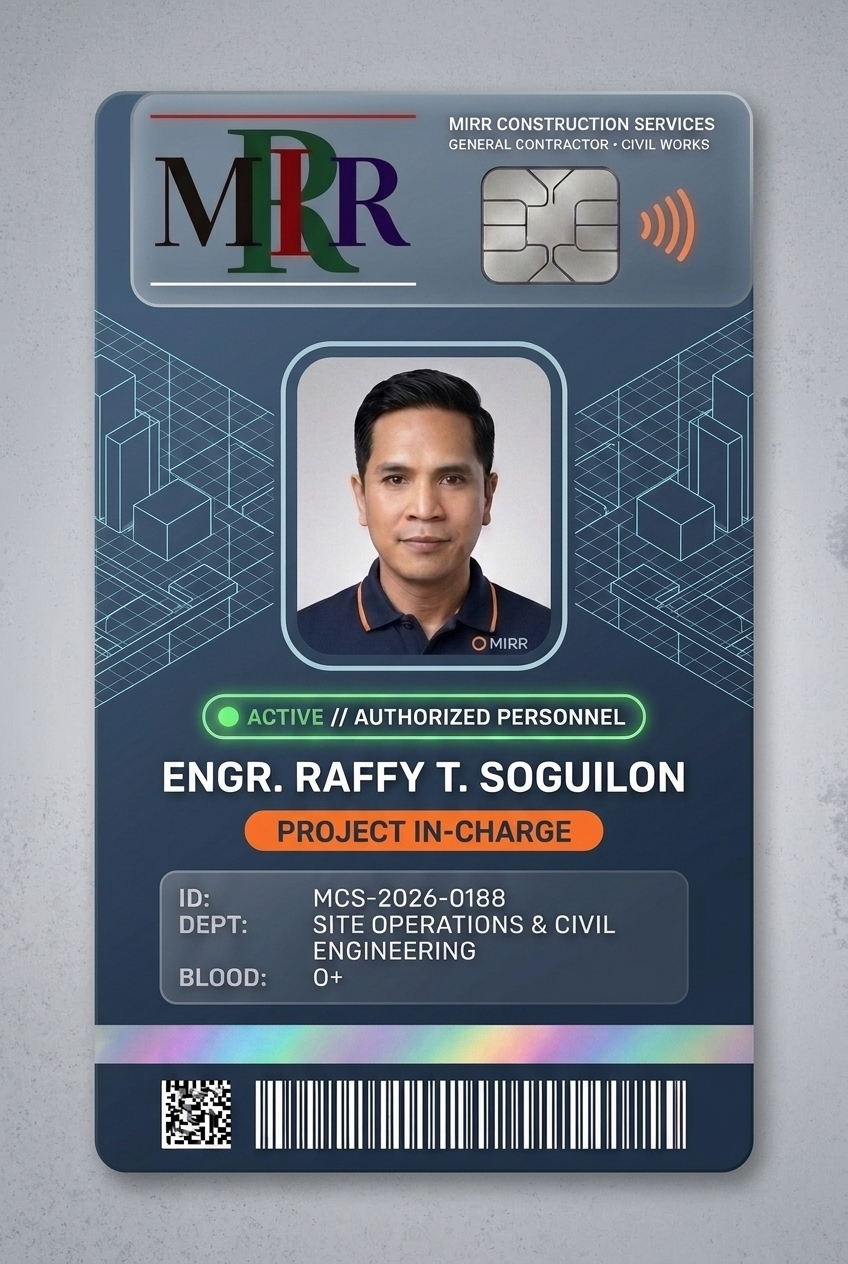
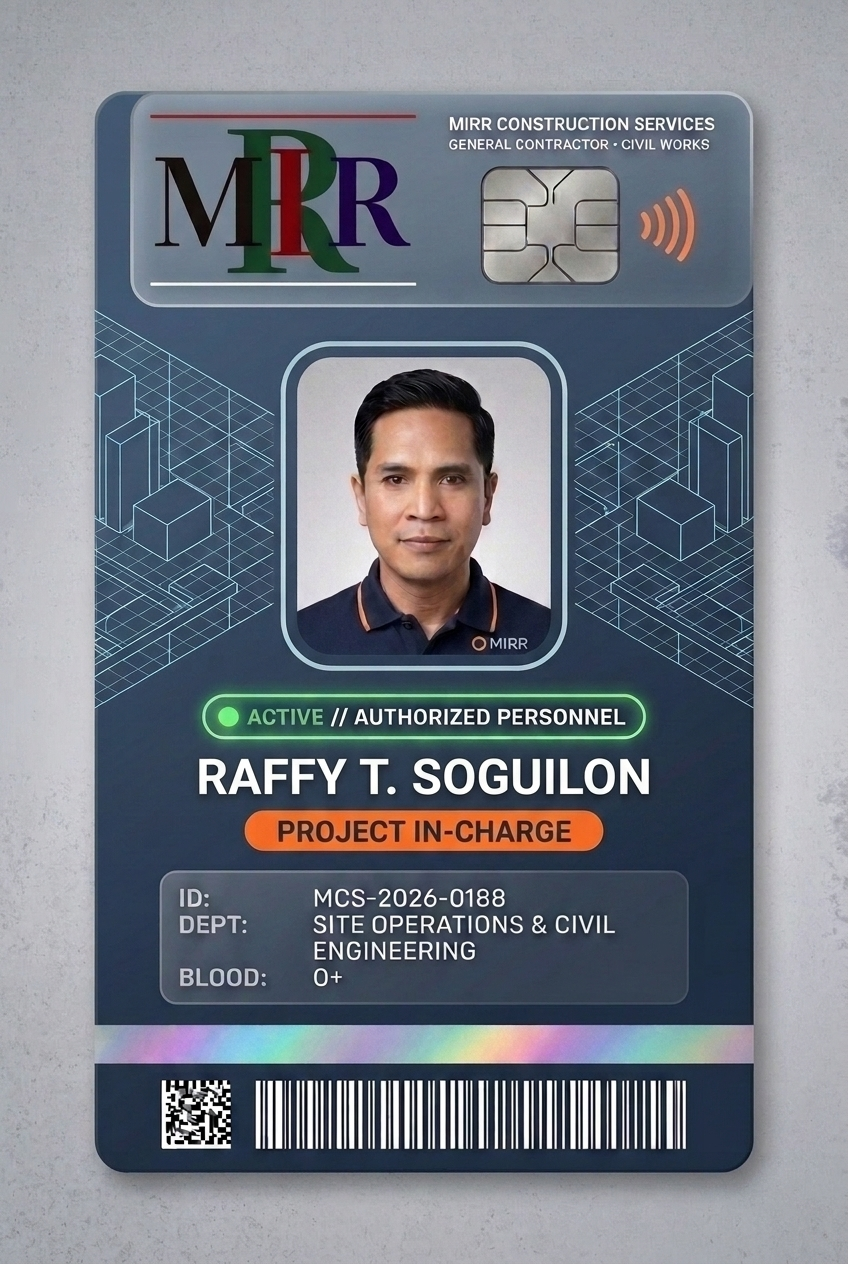
Remove Engineer title prefix before name across all MIRR ID badges and documentation

Changed region(s): [[0.184, 0.5862, 0.8278, 0.6479], [0.2146, 0.8639, 0.2453, 0.8948]]

diff --git a/Printable_ID_Photos_Sheet.html b/Printable_ID_Photos_Sheet.html
@@ -3,7 +3,7 @@
 <head>
 <meta charset="UTF-8">
 <meta name="viewport" content="width=device-width, initial-scale=1.0">
-<title>Professional ID Photos Package — Engr. Raffy T. Soguilon</title>
+<title>Professional ID Photos Package — Raffy T. Soguilon</title>
 <link href="https://fonts.googleapis.com/css2?family=Plus+Jakarta+Sans:wght@500;600;700;800&family=JetBrains+Mono:wght@600&display=swap" rel="stylesheet">
 <style>
   * {
@@ -293,7 +293,7 @@
           <path d="M23 19a2 2 0 0 1-2 2H3a2 2 0 0 1-2-2V8a2 2 0 0 1 2-2h4l2-3h6l2 3h4a2 2 0 0 1 2 2z"></path>
           <circle cx="12" cy="13" r="4"></circle>
         </svg>
-        Professional ID Photo Package — Engr. Raffy T. Soguilon
+        Professional ID Photo Package — Raffy T. Soguilon
       </h1>
       <p>Printable A4 Sheet • 2×2 inch, Philippine Passport/PRC (35×45mm), and 1×1 inch with Cut Guides</p>
     </div>
@@ -316,7 +316,7 @@
     
     <div class="sheet-header">
       <div>
-        <div class="sheet-title">ENGR. RAFFY T. SOGUILON</div>
+        <div class="sheet-title">RAFFY T. SOGUILON</div>
         <div class="sheet-subtitle">Professional ID Photo Package • Project In-Charge • MIRR Construction Services</div>
       </div>
       <div style="text-align: right; font-size: 8px; color: #64748b;">
@@ -356,7 +356,7 @@
       <div class="cut-guide">
         <div class="size-2x2-tag">
           <img src="Professional_ID_Photo.jpg" alt="2x2 with Nametag">
-          <div class="nametag-strip">ENGR. RAFFY T. SOGUILON</div>
+          <div class="nametag-strip">RAFFY T. SOGUILON</div>
         </div>
       </div>
     </div>

diff --git a/MIRR_Employee_ID_Card.html b/MIRR_Employee_ID_Card.html
@@ -773,7 +773,7 @@
         MIRR <span>CONSTRUCTION</span>
         <span class="badge-tag">2026 Modern Edition</span>
       </h1>
-      <p>High-Tech Corporate Identification Badge • Engr. Raffy T. Soguilon • CR80 (54mm × 85.6mm)</p>
+      <p>High-Tech Corporate Identification Badge • Raffy T. Soguilon • CR80 (54mm × 85.6mm)</p>
     </div>
     <div class="action-buttons">
       <button class="btn btn-print" onclick="window.print()">
@@ -826,7 +826,7 @@
           <div class="photo-wrapper">
             <div class="photo-frame-modern">
               <!-- Professional Corporate Portrait -->
-              <img src="Professional_ID_Photo.jpg" alt="Engr. Raffy T. Soguilon" style="width:100%; height:100%; object-fit:cover; display:block;">
+              <img src="Professional_ID_Photo.jpg" alt="Raffy T. Soguilon" style="width:100%; height:100%; object-fit:cover; display:block;">
             </div>
             <!-- Smart Chip Icon -->
             <div class="smart-chip-icon" title="Encrypted Biometric Smart Chip">
@@ -843,7 +843,7 @@
           <!-- Employee Name & Designation -->
           <div class="employee-meta">
             <div class="access-pill">Active // Site Clearance</div>
-            <div class="emp-name-modern" contenteditable="true">ENGR. RAFFY T. SOGUILON</div>
+            <div class="emp-name-modern" contenteditable="true">RAFFY T. SOGUILON</div>
             <div class="emp-role-badge" contenteditable="true">PROJECT IN-CHARGE</div>
             <div class="emp-division" contenteditable="true">Site Operations &amp; Civil Engineering</div>
           </div>

diff --git a/README.md b/README.md
@@ -4,11 +4,11 @@ Collection of architectural 3D models, 3D floor plans, business systems, enginee
 
 ---
 
-## 📸 Professional Corporate ID Photo & Printable Package — Engr. Raffy T. Soguilon
+## 📸 Professional Corporate ID Photo & Printable Package — Raffy T. Soguilon
 
-- **Professional Studio Headshot:** [`Professional_ID_Photo.jpg`](Professional_ID_Photo.jpg) / [`Engr_Raffy_Soguilon_Professional_ID_Photo.jpg`](Engr_Raffy_Soguilon_Professional_ID_Photo.jpg) — High-resolution studio portrait in tailored corporate navy suit, white dress shirt, and executive tie with 3-point lighting against a neutral gradient backdrop.
+- **Professional Studio Headshot:** [`Professional_ID_Photo.jpg`](Professional_ID_Photo.jpg) / [`Raffy_Soguilon_Professional_ID_Photo.jpg`](Professional_ID_Photo.jpg) — High-resolution studio portrait in tailored corporate attire with 3-point lighting against a neutral gradient backdrop.
 - **Printable ID Photos Sheet:** [`Printable_ID_Photos_Sheet.html`](Printable_ID_Photos_Sheet.html) — Standard A4 photo paper layout with precision cut guides:
-  - 4 copies of **2" × 2"** (Passport Size) — plain & with name tag ("ENGR. RAFFY T. SOGUILON")
+  - 4 copies of **2" × 2"** (Passport Size) — plain & with name tag ("RAFFY T. SOGUILON")
   - 4 copies of **Philippine Passport / PRC Size (35mm × 45mm)**
   - 6 copies of **1" × 1"** ID size
   - One-click print styling (`Ctrl + P`) at 100% true scale.
@@ -18,8 +18,8 @@ Collection of architectural 3D models, 3D floor plans, business systems, enginee
 ## 🪪 MIRR Construction Services — 2026 Modern Edition Corporate ID Card
 
 - **Official Company Logo:** [`MIRR_Official_Logo.jpg`](MIRR_Official_Logo.jpg) — Official corporate interlocking serif monogram (Red accent line, Black M, Green R, Crimson I, Indigo R).
-- **Printable & Editable Web Template:** [`MIRR_Employee_ID_Card.html`](MIRR_Employee_ID_Card.html) — Ultra-modern dark obsidian aesthetic with official MIRR logo, biometric badge indicators, standard CR80 dimensions (54mm × 85.6mm), and true-scale print styling (`Ctrl + P`).
-- **Modern Front Badge Graphic:** [`MIRR_Modern_ID_Front.jpg`](MIRR_Modern_ID_Front.jpg) / [`MIRR_Employee_ID_Front.jpg`](MIRR_Employee_ID_Front.jpg) — High-tech vertical badge featuring the official MIRR logo, Engr. Raffy T. Soguilon (Project In-Charge) with fitted company polo and side-part haircut, smart chip pad, RFID contactless indicator, holographic seal, and 2D matrix barcode.
+- **Printable & Editable Web Template:** [`MIRR_Employee_ID_Card.html`](MIRR_Employee_ID_Card.html) — Ultra-modern titanium slate aesthetic with official MIRR logo, biometric badge indicators, standard CR80 dimensions (54mm × 85.6mm), and true-scale print styling (`Ctrl + P`).
+- **Modern Front Badge Graphic:** [`MIRR_Modern_ID_Front.jpg`](MIRR_Modern_ID_Front.jpg) / [`MIRR_Employee_ID_Front.jpg`](MIRR_Employee_ID_Front.jpg) — High-tech vertical badge featuring the official MIRR logo, Raffy T. Soguilon (Project In-Charge) with fitted company polo, smart chip pad, RFID contactless indicator, holographic seal, and 2D matrix barcode.
 - **Modern Back Badge Graphic:** [`MIRR_Modern_ID_Back.jpg`](MIRR_Modern_ID_Back.jpg) / [`MIRR_Employee_ID_Back.jpg`](MIRR_Employee_ID_Back.jpg) — Official logo watermark, edge-to-edge magnetic stripe, frosted glass policy cards, ICE emergency dispatch, and digital site verification QR code.
 - **Executive Desk Presentation Mockup:** [`MIRR_Employee_ID_Presentation.jpg`](MIRR_Employee_ID_Presentation.jpg) — Commercial desk presentation featuring the badge with branded lanyard.
 
